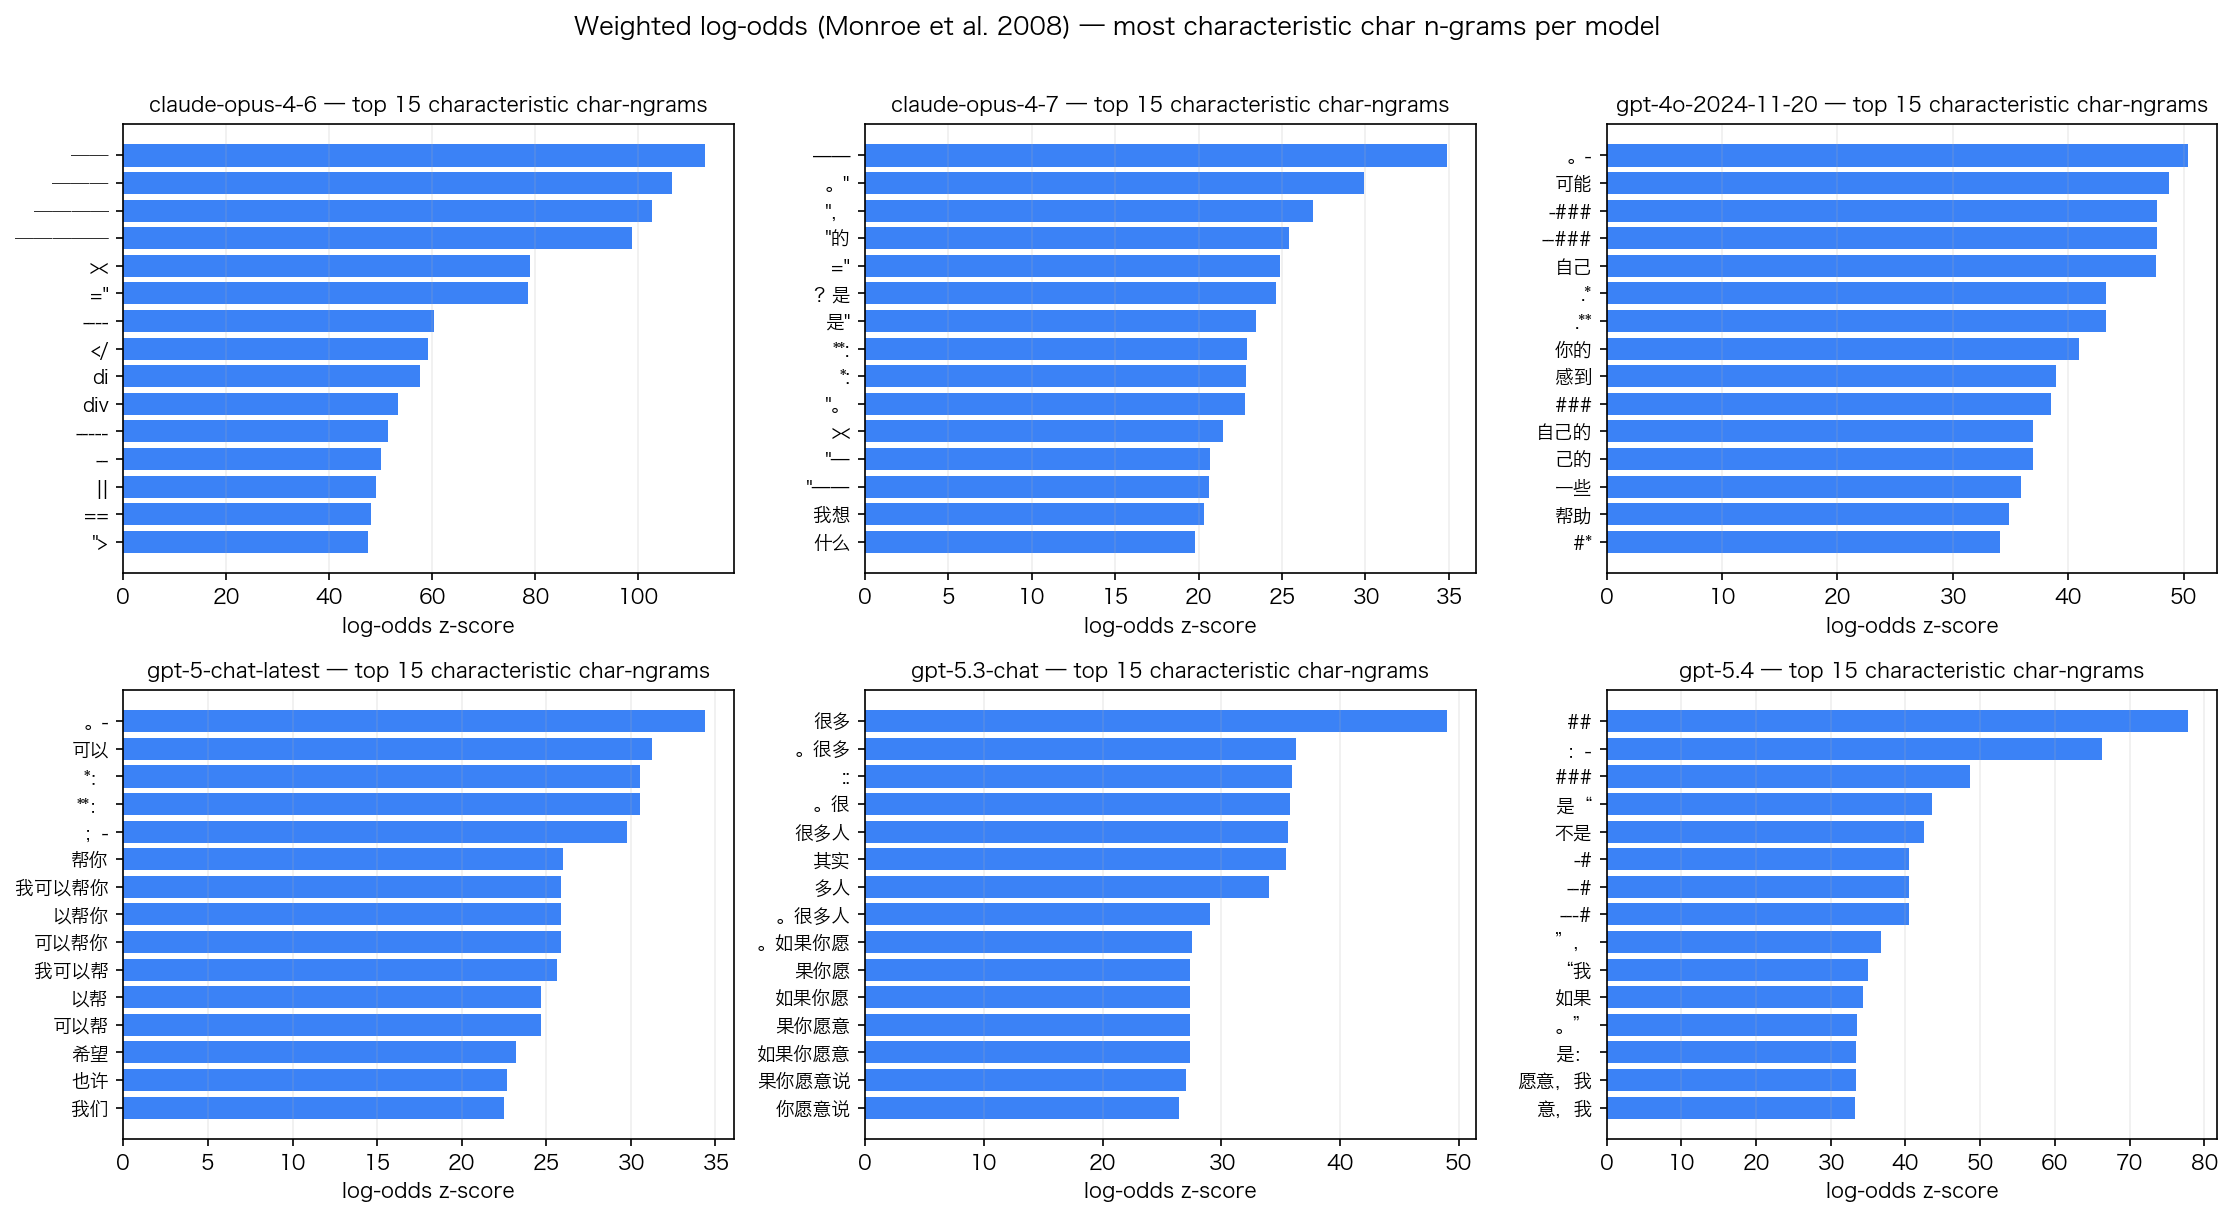
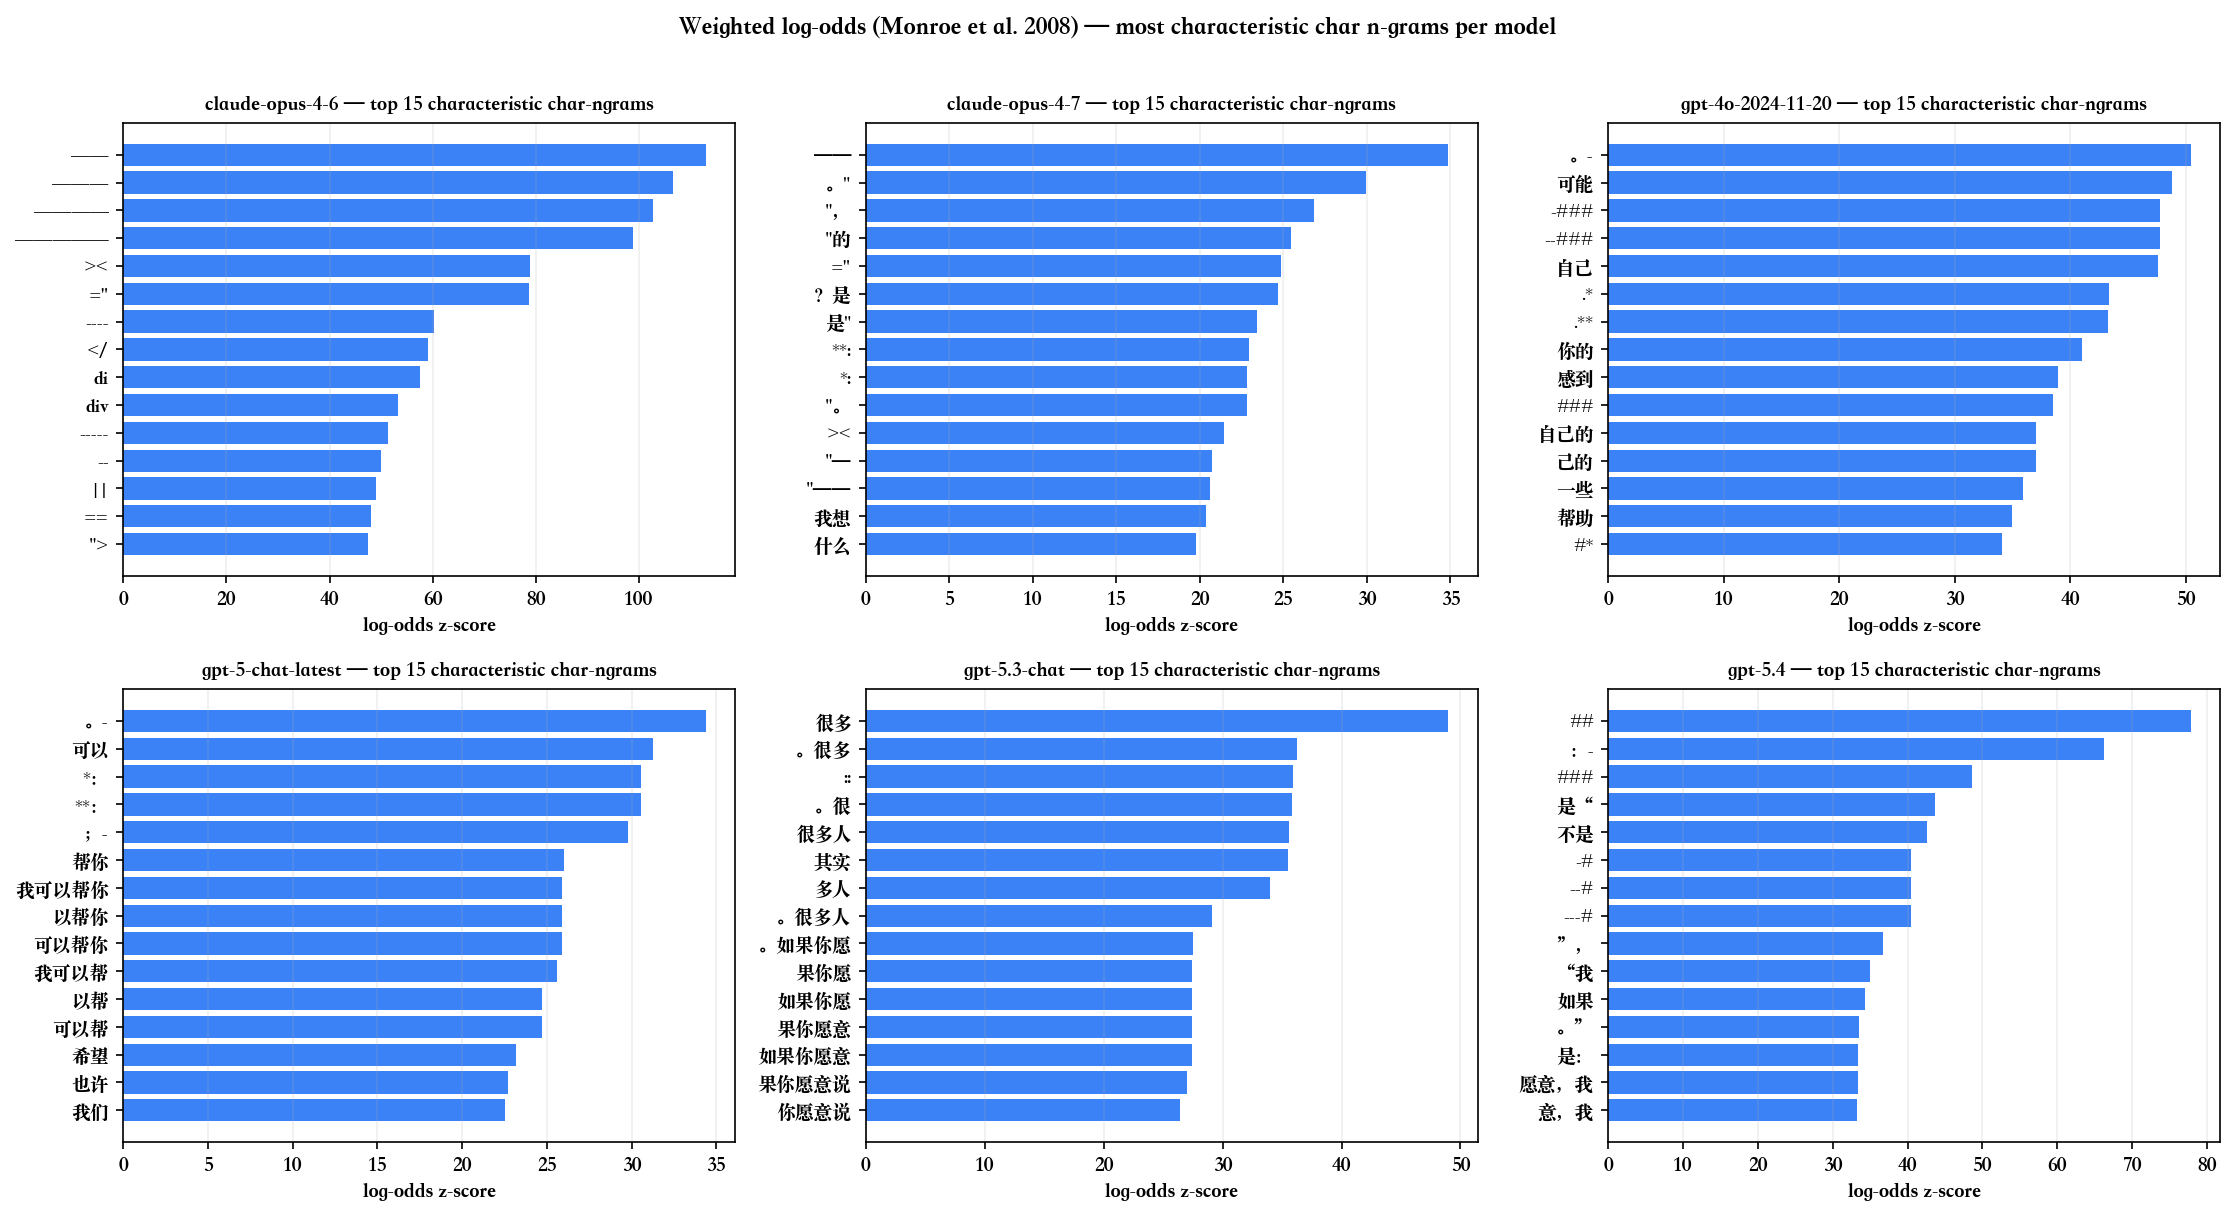
Switch figure CJK font to Songti SC to match original Ming serif style
The previous fix landed Hiragino Sans GB (sans-serif), which rendered
CJK correctly but diverged visually from the original cdd89fe figures
produced with AR PL UMing (Linux arphic Ming serif). Reorder the font
priority list so macOS picks Songti SC first — closest Ming serif
equivalent to uming — and regenerate all 4 figures.

diff --git a/src/visualize.py b/src/visualize.py
@@ -30,17 +30,20 @@ FIG = ANA / "figures"
 
 def configure_cjk_font():
     """Find a single font file that has BOTH Latin and CJK, register it."""
-    # prefer fonts that cover both CJK and Latin in one file
+    # prefer fonts that cover both CJK and Latin in one file.
+    # order chosen to match the Linux AR PL UMing serif/Ming look of the
+    # original figures — Songti / uming are both Ming-style CJK serifs.
     preferred_paths = [
-        # macOS
+        # Linux arphic uming — the ORIGINAL rendering font
+        "/usr/share/fonts/truetype/arphic/uming.ttc",
+        "/usr/share/fonts/truetype/arphic-gbsn00lp/gbsn00lp.ttf",
+        # macOS (Songti = Ming serif, closest match; others are sans-serif fallbacks)
+        "/System/Library/Fonts/Supplemental/Songti.ttc",
         "/System/Library/Fonts/Hiragino Sans GB.ttc",
         "/System/Library/Fonts/STHeiti Medium.ttc",
         "/System/Library/Fonts/STHeiti Light.ttc",
-        "/System/Library/Fonts/Supplemental/Songti.ttc",
         "/System/Library/Fonts/Supplemental/Arial Unicode.ttf",
-        # Linux (arphic / droid cover both CJK and Latin)
-        "/usr/share/fonts/truetype/arphic/uming.ttc",
-        "/usr/share/fonts/truetype/arphic-gbsn00lp/gbsn00lp.ttf",
+        # Linux (other fallbacks)
         "/usr/share/fonts/truetype/droid/DroidSansFallbackFull.ttf",
         "/usr/share/fonts/opentype/noto/NotoSansCJK-Regular.ttc",
         # Windows

diff --git a/scripts/patterns_by_category.py b/scripts/patterns_by_category.py
@@ -35,19 +35,18 @@ KEY_PATTERNS = ["加粗", "不是_是", "接住", "给你X", "如果你愿意"]
 
 
 def configure_font():
+    # order matches src/visualize.py — Linux uming (original) first, then
+    # macOS Songti (closest serif Ming match), then sans-serif fallbacks.
     for p in [
-        # macOS
+        "/usr/share/fonts/truetype/arphic/uming.ttc",
+        "/usr/share/fonts/truetype/arphic-gbsn00lp/gbsn00lp.ttf",
+        "/System/Library/Fonts/Supplemental/Songti.ttc",
         "/System/Library/Fonts/Hiragino Sans GB.ttc",
         "/System/Library/Fonts/STHeiti Medium.ttc",
         "/System/Library/Fonts/STHeiti Light.ttc",
-        "/System/Library/Fonts/Supplemental/Songti.ttc",
         "/System/Library/Fonts/Supplemental/Arial Unicode.ttf",
-        # Linux
-        "/usr/share/fonts/truetype/arphic/uming.ttc",
-        "/usr/share/fonts/truetype/arphic-gbsn00lp/gbsn00lp.ttf",
         "/usr/share/fonts/truetype/droid/DroidSansFallbackFull.ttf",
         "/usr/share/fonts/opentype/noto/NotoSansCJK-Regular.ttc",
-        # Windows
         "C:/Windows/Fonts/msyh.ttc",
         "C:/Windows/Fonts/simhei.ttf",
     ]:
